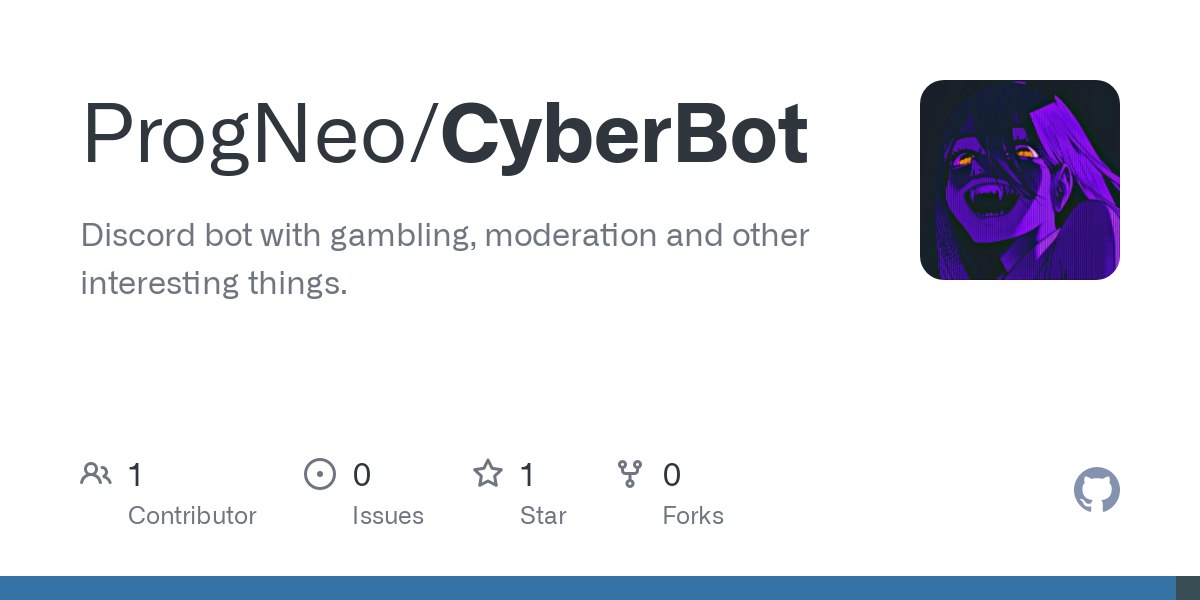
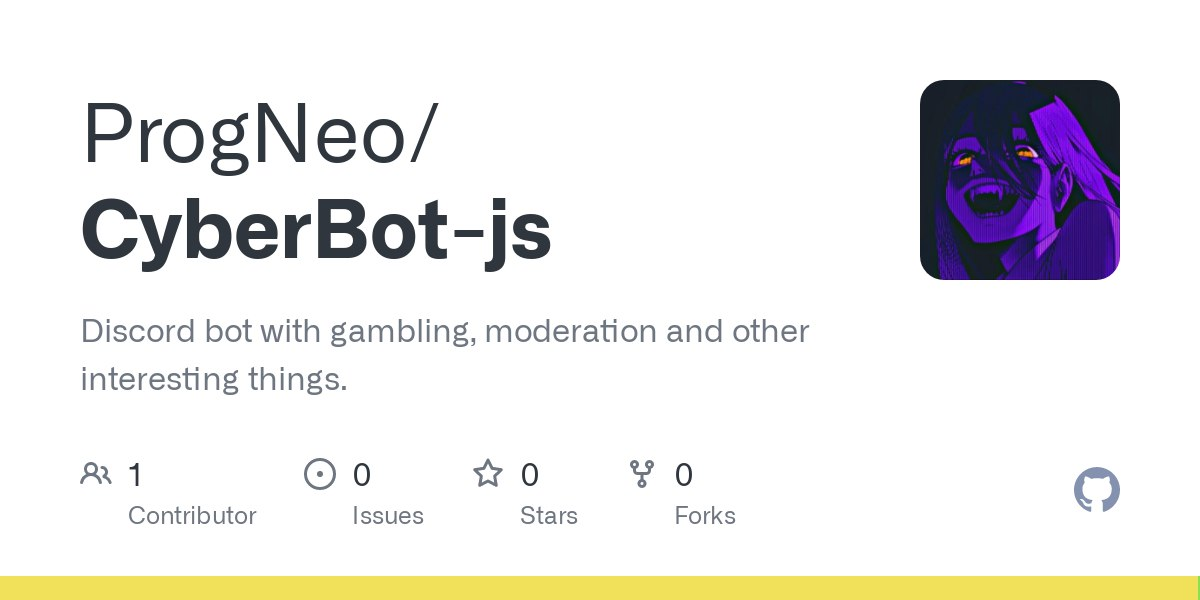
Some changes

diff --git a/pages/works/cyberbot.js b/pages/works/cyberbot.js
@@ -9,7 +9,7 @@ const Work = () => {
     <Layout title={"CyberBot"}>
       <Container>
         <Title>
-          CyberBot <Badge>2022</Badge>
+          CyberBot <Badge>2023</Badge>
         </Title>
         <P>
           Discord bot with gambling, moderation and other interesting things.
@@ -17,8 +17,8 @@ const Work = () => {
         <List ml={4} my={4}>
           <ListItem>
             <Meta>Git</Meta>
-            <Link href={"https://github.com/ProgNeo/CyberBot"}>
-              https://github.com/ProgNeo/CyberBot <ExternalLinkIcon mx={"2px"} />
+            <Link href={"https://github.com/ProgNeo/CyberBot-js"}>
+              https://github.com/ProgNeo/CyberBot-js <ExternalLinkIcon mx={"2px"} />
             </Link>
           </ListItem>
           <ListItem>
@@ -27,7 +27,7 @@ const Work = () => {
           </ListItem>
           <ListItem>
             <Meta>Technologies</Meta>
-            <span>Python, MySQL</span>
+            <span>Node.js, SQL</span>
           </ListItem>
         </List>
       </Container>

diff --git a/pages/index.js b/pages/index.js
@@ -94,7 +94,7 @@ const Page = () => {
           </BioSection>
           <BioSection>
             <BioYear>2022</BioYear>
-            Samsung IT Academy - 1&apos;st place
+            Graduated from the mobile development course from Samsung IT Academy
           </BioSection>
           <BioSection>
             <BioYear>2022</BioYear>

diff --git a/pages/works/smart-schedule.js b/pages/works/smart-schedule.js
@@ -9,7 +9,7 @@ const Work = () => {
     <Layout title={"Smart Schedule"}>
       <Container>
         <Title>
-          Smart Schedule <Badge>2022</Badge>
+          Smart Schedule <Badge>2023</Badge>
         </Title>
         <P>
           Telegram bot for getting a schedule at the Irkutsk Scientific Technological University.

diff --git a/pages/works/united-messengers.js b/pages/works/united-messengers.js
@@ -9,7 +9,7 @@ const Work = () => {
     <Layout title={"United Messengers"}>
       <Container>
         <Title>
-          United Messengers <Badge>2022</Badge>
+          United Messengers <Badge>2023</Badge>
         </Title>
         <P>
           A messenger that combines several others, designed for Android.

diff --git a/pages/works.js b/pages/works.js
@@ -11,7 +11,7 @@ const Works = () => (
   <Layout title={"Works"}>
     <Container>
       <Heading as={"h3"} fontSize={20} mb={4} mt={4}>
-        Works
+        Mobile applications
       </Heading>
       <SimpleGrid columns={[1, 1, 2]} gap={6}>
         <Section>
